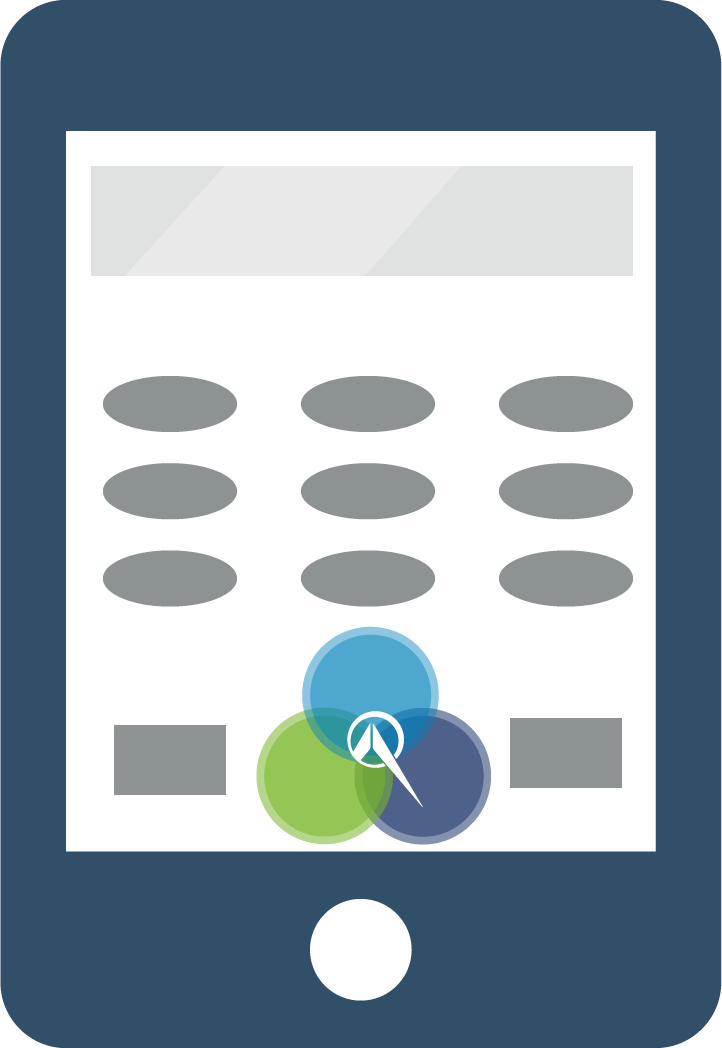
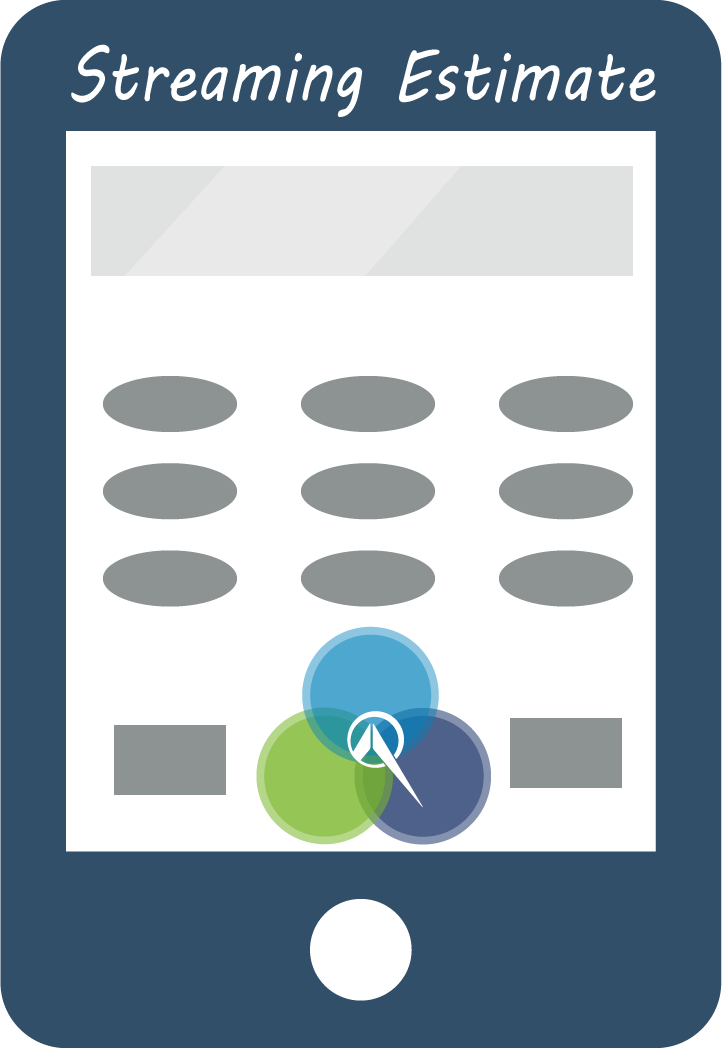
streaming estimate adjustment

Changed region(s): [[0.0914, 0.0305, 0.518, 0.1221], [0.5485, 0.0305, 0.9141, 0.1221]]

diff --git a/public/assets/css/style.css b/public/assets/css/style.css
@@ -60,7 +60,7 @@ text-align: center;
   background-color: transparent;
   position: absolute;
   padding-left: 10%;
-  padding-top: 12%;
+  padding-top: 42%;
   font-family: 'Kalam', cursive;
   font-size: 200%;
 }
@@ -68,6 +68,7 @@ text-align: center;
 .priceTag{
   max-width: 80%;
   z-index: 1;
+  padding-top: 30%;
 }
 
 .row {
